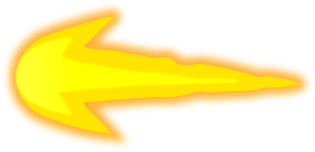
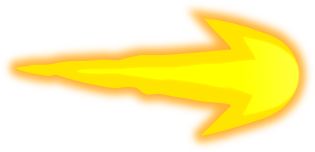
Static HUD and rotate super shot

diff --git a/src/HUD/HUD.js b/src/HUD/HUD.js
@@ -10,8 +10,11 @@ export default class HUD  {
         this.lightningIcon = null;
 
         // Initialize coins
-        this.scene.add.image(900, 80, 'coin').setScale(0.08);
-        this.coinsText = this.scene.add.text(930, 75, '0', { fontSize: '30px', fill: '#0'});
+        var coinsImage = this.scene.add.image(900, 80, 'coin').setScale(0.08);
+        this.coinsText = this.scene.add.text(925, 75, '0', { fontSize: '30px', fill: '#0'});
+
+        coinsImage.setScrollFactor(0,0);
+        this.coinsText.setScrollFactor(0,0);
 
         // Initialize lifes
         this.setLifes(3);
@@ -36,12 +39,14 @@ export default class HUD  {
         for (let i = 0; i < lifesNumber; i++){ // Create new hearts
             this.heartArray.push(this.scene.add.image(leftPosition, 25, 'heart').setScale(0.08));
             leftPosition -= 50;
+            this.heartArray[i].setScrollFactor(0,0);
         }
     }
 
     // Add lightning indicator to HUD
     addLightning (){
         this.lightningIcon = this.scene.add.image(30, 30, 'lightning').setScale(0.08);
+        this.lightningIcon.setScrollFactor(0,0);
     }
 
     // Remove lightning indicator from HUD

diff --git a/src/power_ups/SuperShot.js b/src/power_ups/SuperShot.js
@@ -10,6 +10,10 @@ export default class SuperShot extends Phaser.Physics.Arcade.Sprite  {
 		this.body.setAllowGravity(false);
 		this.body.velocity.x = direction * 600;
 		this.damage = 3;
+
+		if (direction == -1){
+			this.setRotation(3.14);
+		}
 	}
 
 	// Destroy item if reaches 5 seconds lifetime
